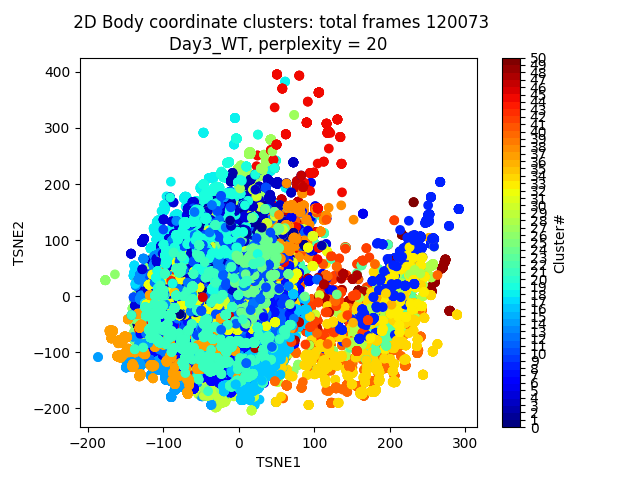
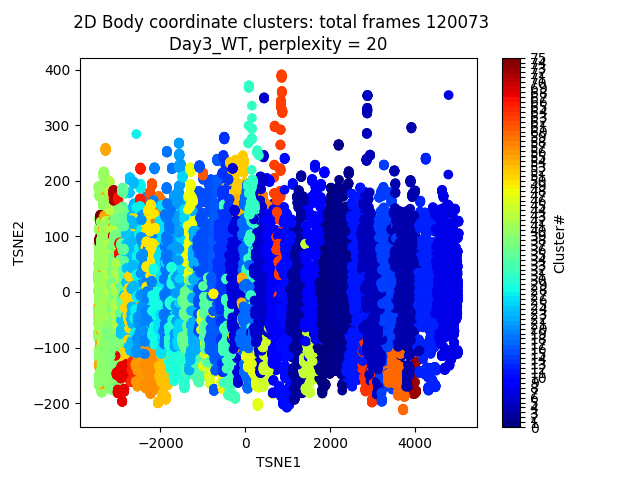
More tsne plots!

diff --git a/featureImportance/tsne/ellenDataPhenograph.py b/featureImportance/tsne/ellenDataPhenograph.py
@@ -33,7 +33,8 @@ day4YAC = '/alder/home/soobink/rotarod_ML10/output/Day4_YAC'
 day3and4WT = '/alder/home/soobink/rotarod_ML10/output/Day3and4_WT'
 day3and4YAC = '/alder/home/soobink/rotarod_ML10/output/Day3and4_YAC'
 
-paths = [day3WT, day4WT, day3YAC, day4YAC, day3and4WT, day3and4YAC]
+# paths = [day3WT, day4WT, day3YAC, day4YAC, day3and4WT, day3and4YAC]
+paths = [day3and4YAC]
 perplexities = [20, 30, 100]
 
 for perplexity in perplexities:
